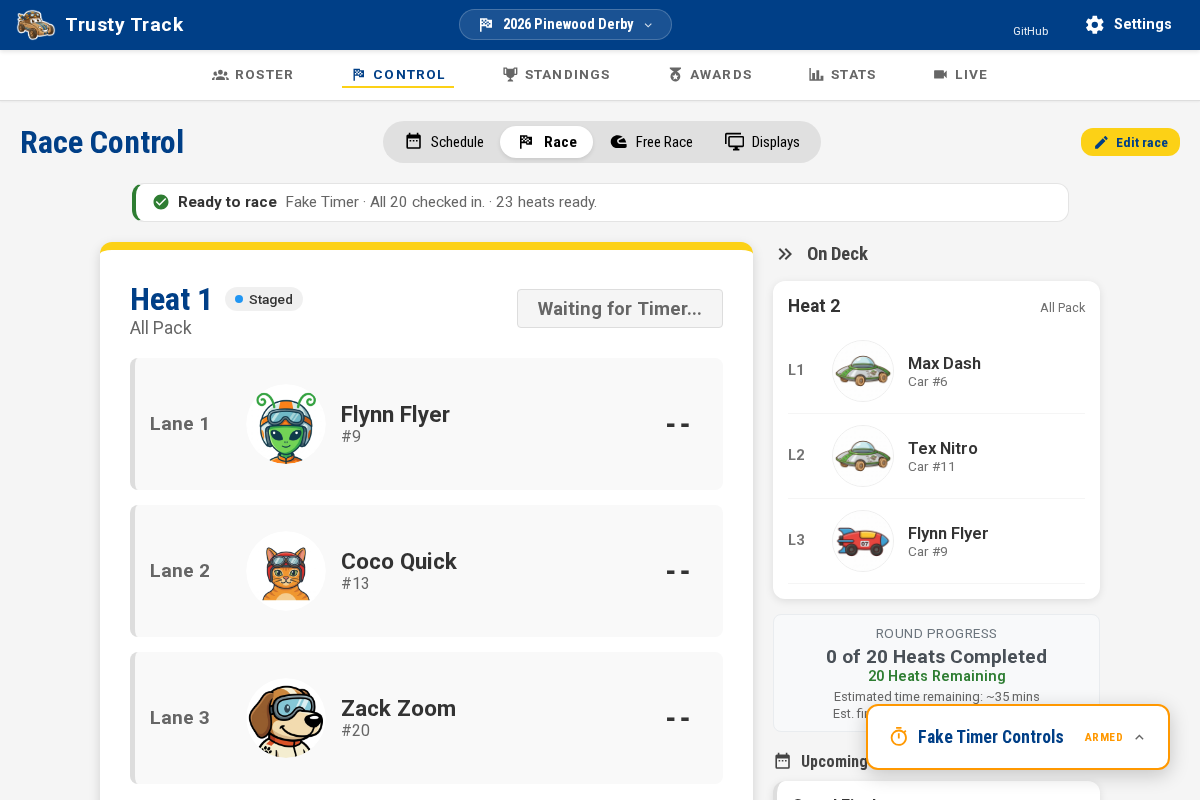
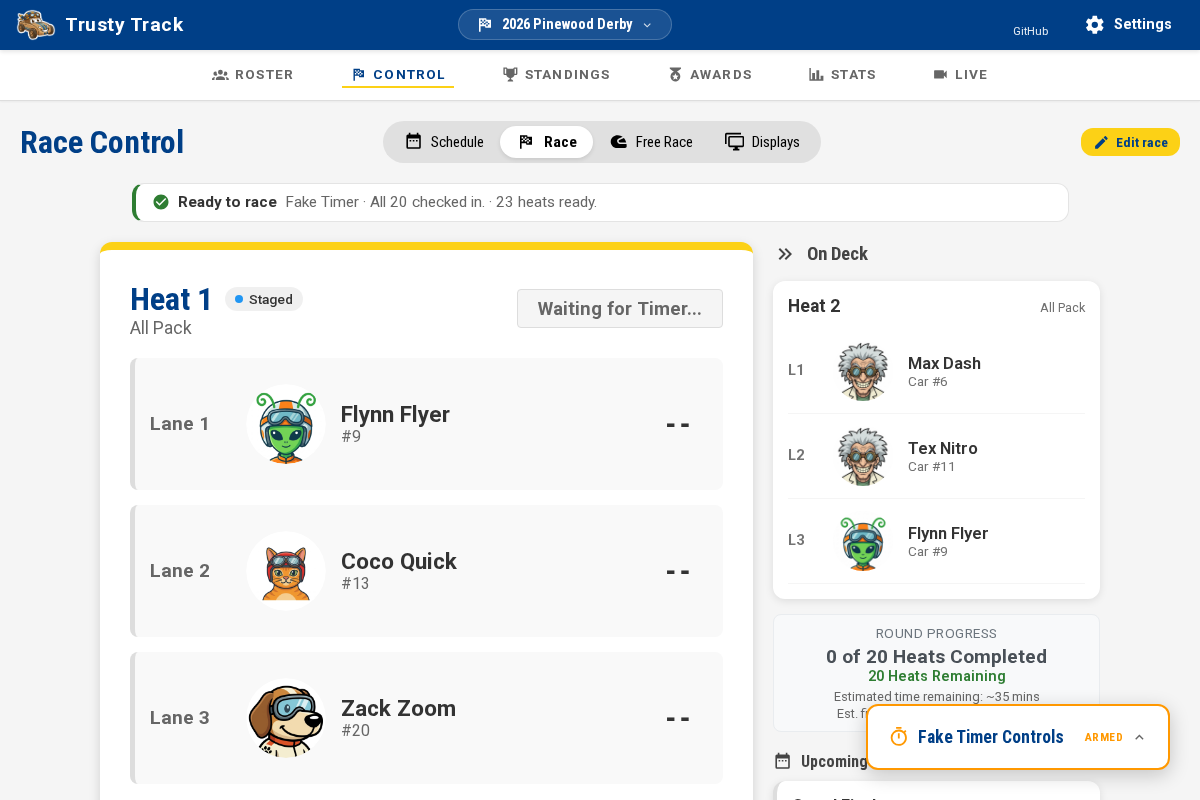
Show racer portraits in On Deck instead of car photos, matching the current heat.
The current heat's lanes and On Deck sat side by side on the Race screen showing
different subjects: the current heat rendered each racer's own portrait
(RacerAvatar, falling back to initials), while On Deck rendered the car photo
(falling back to a gold roundel with the car number). The audience display's
lane cards were already portraits throughout, so On Deck was the odd one out
on both screens for the same heat.

On Deck now renders RacerAvatar exactly as the current heat's lanes do, with
the car number kept as plain text beside the name for the wrangler staging by
number. The now-unused car-photo GraphQL field is dropped from
GetRaceControlData.

diff --git a/frontend/src/features/racing/components/RaceExecution.tsx b/frontend/src/features/racing/components/RaceExecution.tsx
@@ -768,31 +768,15 @@ export const RaceExecution: React.FC<RaceExecutionProps> = ({
                                                                                             <div style={{ fontSize: '0.9rem', fontWeight: 'bold', color: 'var(--text-faint-color)', width: '30px' }}>L{r.lane}</div>
 
                                                                                             <div style={{ width: '60px', height: '60px', flexShrink: 0, display: 'flex', alignItems: 'center', justifyContent: 'center' }}>
-                                                                                                {racer?.carImageUrl ? (
-                                                                                                    <img
-                                                                                                        src={racer.carImageUrl}
-                                                                                                        alt={`${vehicle} #${racer.carNumber}`}
-                                                                                                        style={{ width: '100%', height: '100%', objectFit: 'cover', borderRadius: '50%', border: '1px solid var(--divider-color)' }}
-                                                                                                    />
-                                                                                                ) : (
-                                                                                                    <div style={{
-                                                                                                        width: '100%',
-                                                                                                        height: '100%',
-                                                                                                        background: 'var(--cub-scouting-gold)',
-                                                                                                        color: 'var(--scouting-blue)',
-                                                                                                        borderRadius: '50%',
-                                                                                                        display: 'flex',
-                                                                                                        flexDirection: 'column',
-                                                                                                        alignItems: 'center',
-                                                                                                        justifyContent: 'center',
-                                                                                                        fontWeight: 'bold',
-                                                                                                        border: '1px solid #d4af37',
-                                                                                                        boxShadow: 'inset 0 0 10px rgba(0,0,0,0.05)'
-                                                                                                    }}>
-                                                                                                        <div style={{ fontSize: '0.6rem', opacity: 0.8, textTransform: 'uppercase', lineHeight: 1 }}>{vehicle}</div>
-                                                                                                        <div style={{ fontSize: '1.25rem', lineHeight: 1 }}>{racer?.carNumber ?? '-'}</div>
-                                                                                                    </div>
-                                                                                                )}
+                                                                                                <RacerAvatar
+                                                                                                    racer={{
+                                                                                                        id: racer?.id || r.racerId || 0,
+                                                                                                        first_name: racer?.firstName || '',
+                                                                                                        last_name: racer?.lastName || '',
+                                                                                                        racer_image_url: racer?.racerImageUrl
+                                                                                                    }}
+                                                                                                    size="60px"
+                                                                                                />
                                                                                             </div>
 
                                                                                             <div style={{ flex: 1, minWidth: 0 }}>

diff --git a/frontend/src/gql/operations.ts b/frontend/src/gql/operations.ts
@@ -746,7 +746,7 @@ export type GetRaceControlDataQueryVariables = Exact<{
 }>;
 
 
-export type GetRaceControlDataQuery = { initialConfig: { debugMode: boolean }, race: { id: number, name: string, championshipTrophies: number, scoringStrategy: string, autoAdvanceHeat: boolean, registeredCount: number, checkedInCount: number, masterRunningOrder: boolean, track: { id: number, laneCount: number, timerType: string, laneOutages: Array<number> } | null, racingGroups: Array<{ id: number, name: string }>, racers: Array<{ id: number, firstName: string, lastName: string, carNumber: number | null, racerImageUrl: string | null, carImageUrl: string | null }>, heats: Array<{ id: number, heatNumber: number, roundNumber: number, roundId: number, roundName: string | null, recordedAt: string | null, lanes: Array<{ lane: number, racerId: number | null, placeholderSlot: number | null, time: number | null, place: number | null, skipped: boolean }> }>, rounds: Array<{ id: number, roundNumber: number, name: string | null, advancementSource: string | null, advancementFromBottom: boolean, schedulingStrategy: string, racingGroupId: number | null, advancementStatus: { isReady: boolean, requiresAdvancement: boolean, alreadyAdvanced: boolean, fieldIsStale: boolean, contestedCut: boolean, source: string | null, numRacers: number | null, fromBottom: boolean, advancingRacers: Array<{ racerId: number, firstName: string, lastName: string, carNumber: number | null, racingGroupName: string, score: number, rank: number, isAdvancing: boolean }> } }> } | null };
+export type GetRaceControlDataQuery = { initialConfig: { debugMode: boolean }, race: { id: number, name: string, championshipTrophies: number, scoringStrategy: string, autoAdvanceHeat: boolean, registeredCount: number, checkedInCount: number, masterRunningOrder: boolean, track: { id: number, laneCount: number, timerType: string, laneOutages: Array<number> } | null, racingGroups: Array<{ id: number, name: string }>, racers: Array<{ id: number, firstName: string, lastName: string, carNumber: number | null, racerImageUrl: string | null }>, heats: Array<{ id: number, heatNumber: number, roundNumber: number, roundId: number, roundName: string | null, recordedAt: string | null, lanes: Array<{ lane: number, racerId: number | null, placeholderSlot: number | null, time: number | null, place: number | null, skipped: boolean }> }>, rounds: Array<{ id: number, roundNumber: number, name: string | null, advancementSource: string | null, advancementFromBottom: boolean, schedulingStrategy: string, racingGroupId: number | null, advancementStatus: { isReady: boolean, requiresAdvancement: boolean, alreadyAdvanced: boolean, fieldIsStale: boolean, contestedCut: boolean, source: string | null, numRacers: number | null, fromBottom: boolean, advancingRacers: Array<{ racerId: number, firstName: string, lastName: string, carNumber: number | null, racingGroupName: string, score: number, rank: number, isAdvancing: boolean }> } }> } | null };
 
 export type CreateRoundMutationVariables = Exact<{
   raceId: number;

diff --git a/frontend/src/features/racing/components/RaceExecution.test.tsx b/frontend/src/features/racing/components/RaceExecution.test.tsx
@@ -757,6 +757,40 @@ describe('RaceExecution', () => {
         expect(screen.getAllByText('Jane Smith')).toHaveLength(2);
     });
 
+    it('shows racer portraits in On Deck, not car photos (#608)', () => {
+        // The current heat's lanes have always shown the racer's own
+        // portrait (falling back to initials); On Deck used to show the
+        // car photo instead (falling back to a car-number roundel), so the
+        // same heat read as a column of faces beside a column of cars. A
+        // racer with a car photo but no racer photo is the sharpest case:
+        // the old On Deck would have shown the car photo it did have, and
+        // the fixed version must show the initials fallback instead.
+        const racersWithCarPhotoOnly = {
+            ...mockRacers,
+            103: { id: 103, firstName: 'Amy', lastName: 'Lee', carNumber: 3, racerImageUrl: null, carImageUrl: 'http://example.com/car103.jpg' },
+        };
+        render(
+            <RaceExecution
+                {...defaultProps}
+                racers={racersWithCarPhotoOnly}
+                activeExecutionHeat={{ ...mockHeat, roundId: 1 }}
+                nextExecutionHeat={{
+                    ...mockHeat,
+                    id: 2,
+                    heatNumber: 2,
+                    roundId: 1,
+                    lanes: [lane({ lane: 1, racerId: 103 })],
+                }}
+            />
+        );
+
+        // No car photo anywhere in On Deck, and no roundel — the initials
+        // fallback (RacerAvatar's own empty state) stands in for it.
+        expect(screen.queryByAltText(/Amy Lee|#3/)).not.toBeInTheDocument();
+        expect(document.querySelector('img[src="http://example.com/car103.jpg"]')).not.toBeInTheDocument();
+        expect(screen.getByTitle('Amy Lee')).toHaveTextContent('AL');
+    });
+
     it('renders "Round Not Ready" when heat has placeholders', () => {
         const placeholderHeat: Heat = {
             id: 2,

diff --git a/frontend/src/features/racing/graphql/queries.ts b/frontend/src/features/racing/graphql/queries.ts
@@ -166,7 +166,6 @@ export const GET_RACE_CONTROL_DATA = gql`
         lastName
         carNumber
         racerImageUrl
-        carImageUrl
       }
       heats {
         id

diff --git a/CLAUDE.md b/CLAUDE.md
@@ -923,6 +923,8 @@ Also a subscription. It watches **two** channels — `timer_state:{track_id}` fo
 
 Don't reintroduce a merge on the client; extend `domain/heat_session.py` instead.
 
+**The current heat and On Deck show the same kind of picture** (#608). Both panels of `RaceExecution.tsx` render `RacerAvatar` — the racer's own portrait, falling back to initials — rather than the current heat showing faces while On Deck showed the car photo (falling back to a gold roundel carrying the car number). They sit side by side on one screen, and the audience display's own lane cards (`Observation.tsx`) were already faces throughout; the split was On Deck's alone. A face is what the person calling racers to the start line needs, and the car number stays as plain text beside the name for the wrangler staging by number — the car photo itself is one click away on the roster. The operator screen is not a public surface (see "Name display" above), so this is unrelated to `shouldShowRacerPhoto`'s gating: both panels always show the portrait when one is on file.
+
 ### What the operator screen does between heats
 
 Issue #13. `RaceExecution.tsx` used to encode the race-day flow as six `useEffect`s guarding each other with mirror state, two refs, a derived boolean and an `eslint-disable react-hooks/exhaustive-deps`. It is now one machine in `features/racing/raceFlow.ts`, with `useRaceFlow.ts` as the only wiring.
